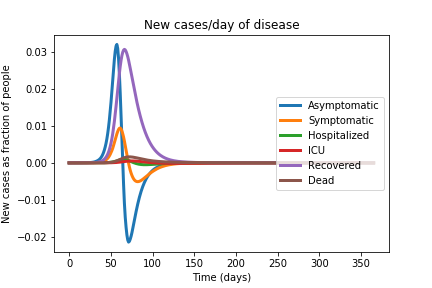
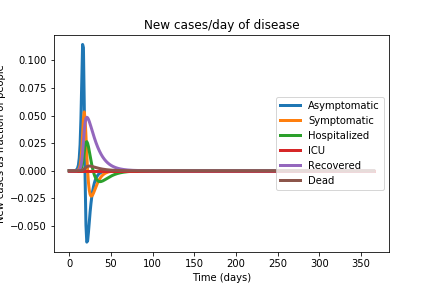
load actual data to use for optimization

diff --git a/function_lib.py b/function_lib.py
@@ -8,6 +8,7 @@ import matplotlib.pyplot as plt
 import numpy as np 
 from scipy.integrate import solve_ivp
 import os
+import csv
 
 def populationModel(t, n, params):
   """ Define the population model based on the different rates and initial conditions 
@@ -92,3 +93,31 @@ def file_to_dict(filename):
                 params[key] = float(val)
                 
     return params
+
+def data_loader(filename,pop_size):
+    """
+    Load the actual data in an array so that we can fit the model to it
+
+    Parameters
+    ----------
+    filename : string
+        CSV file containing the country, date, number of people in each category and number of tests.
+
+    Returns
+    -------
+    array with fraction of population in each category
+
+    """
+    with open(filename, newline='') as csvfile:
+        data = list(csv.reader(csvfile))
+   
+        data = np.array(data)
+
+
+    data = np.delete(data,[0,1,7],axis=1) #delete country, date and tests
+    data = np.delete(data,[0],axis=0) #delete header
+    data = np.transpose(data)
+    data = data.astype(np.float)
+    data = np.divide(data,pop_size)
+    
+    return(data)

diff --git a/test.py b/test.py
@@ -1,0 +1,41 @@
+# -*- coding: utf-8 -*-
+"""
+Created on Thu Apr  2 20:20:27 2020
+
+@author: myrth
+"""
+
+import csv
+import numpy as np
+
+def data_loader(filename,pop_size):
+    """
+    Load the actual data in an array so that we can fit the model to it
+
+    Parameters
+    ----------
+    filename : string
+        CSV file containing the country, date, number of people in each category and number of tests.
+
+    Returns
+    -------
+    array with fraction of population in each category
+
+    """
+    with open(filename, newline='') as csvfile:
+        data = list(csv.reader(csvfile))
+   
+        data = np.array(data)
+
+
+    data = np.delete(data,[0,1,7],axis=1) #delete country, date and tests
+    data = np.delete(data,[0],axis=0) #delete header
+    data = np.transpose(data)
+    data = data.astype(np.float)
+    data = np.divide(data,pop_size)
+    
+    
+    return(data)
+
+pop_size = 364260
+iceland_data = data_loader('iceland_data.csv',pop_size)

diff --git a/infectionModel_v0.1.py b/infectionModel_v0.1.py
@@ -13,7 +13,7 @@ colors = ['#299727ff', '#b6311cff', '#276ba2ff', '#424242ff']
 
 
 #Declaration of the input variables
-params = file_to_dict("parameters.txt")                        
+params = file_to_dict("parameters_new.txt")                        
 n0 = [params["n0_susc"], params["n0_inf1"], params["n0_inf2"],
       params["n0_inf3"], params["n0_inf4"], params["n0_rec"], params["n0_dead"]]  #initial conditions: fraction of the population that is in a certain state. 
 
@@ -27,6 +27,9 @@ t = np.linspace(tstart, tend, tend * 100)
 sol = solve_ivp(populationModel, tspan, n0, args=[ params], dense_output=True)
 print(sol.message)
 y = sol.sol(t)
+
+#loading the actual data
+iceland_data = data_loader('iceland_data.csv',params["pop_size"])
  
 #plotting the solution
 fig1, ax1 = plt.subplots()
